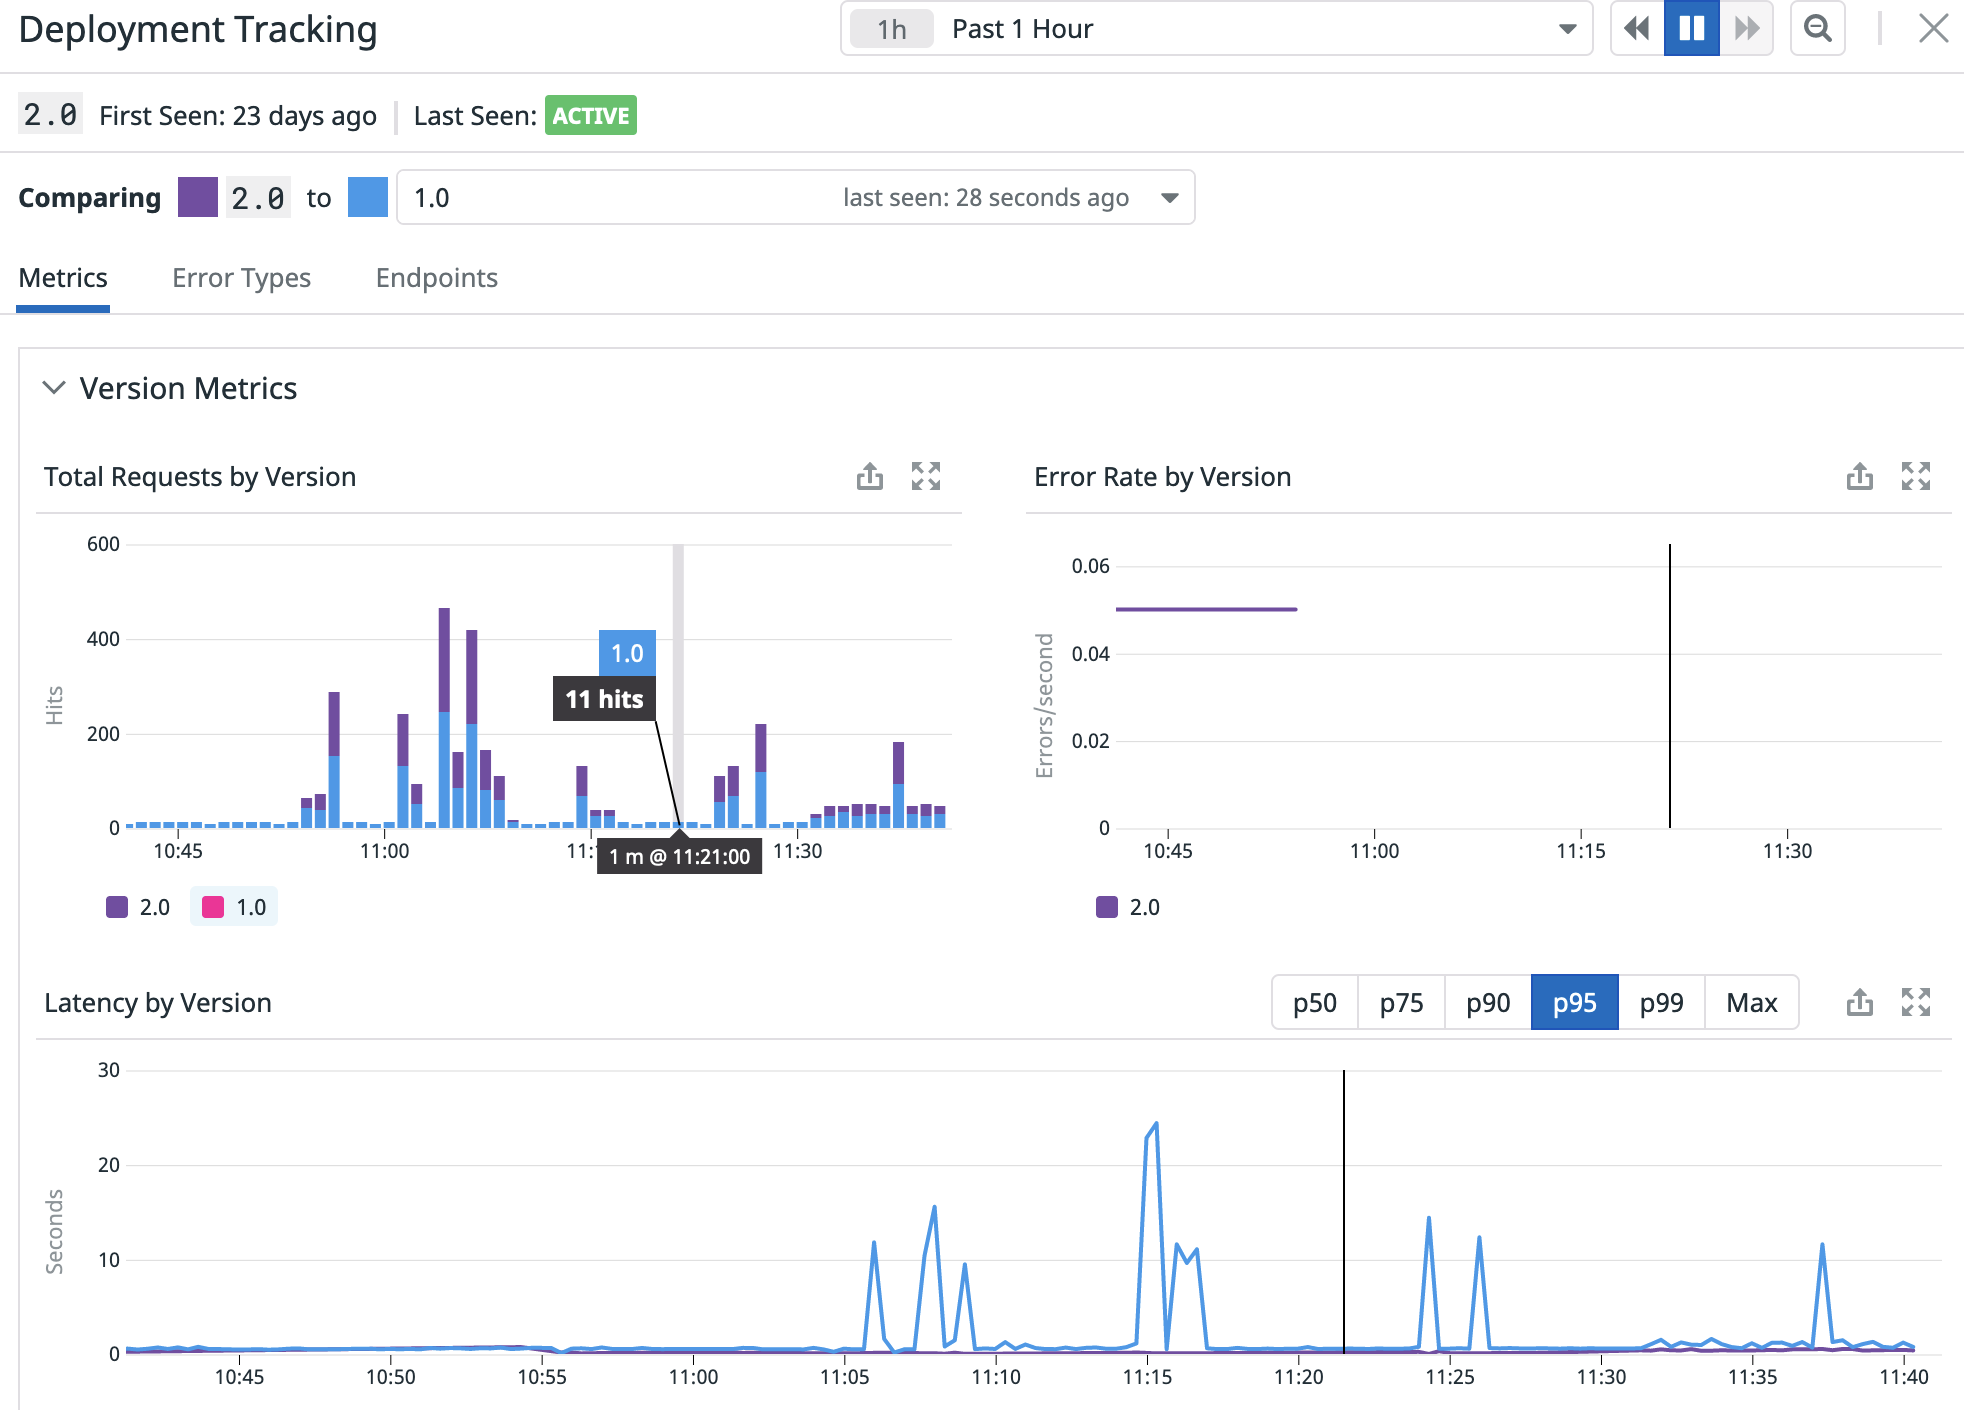
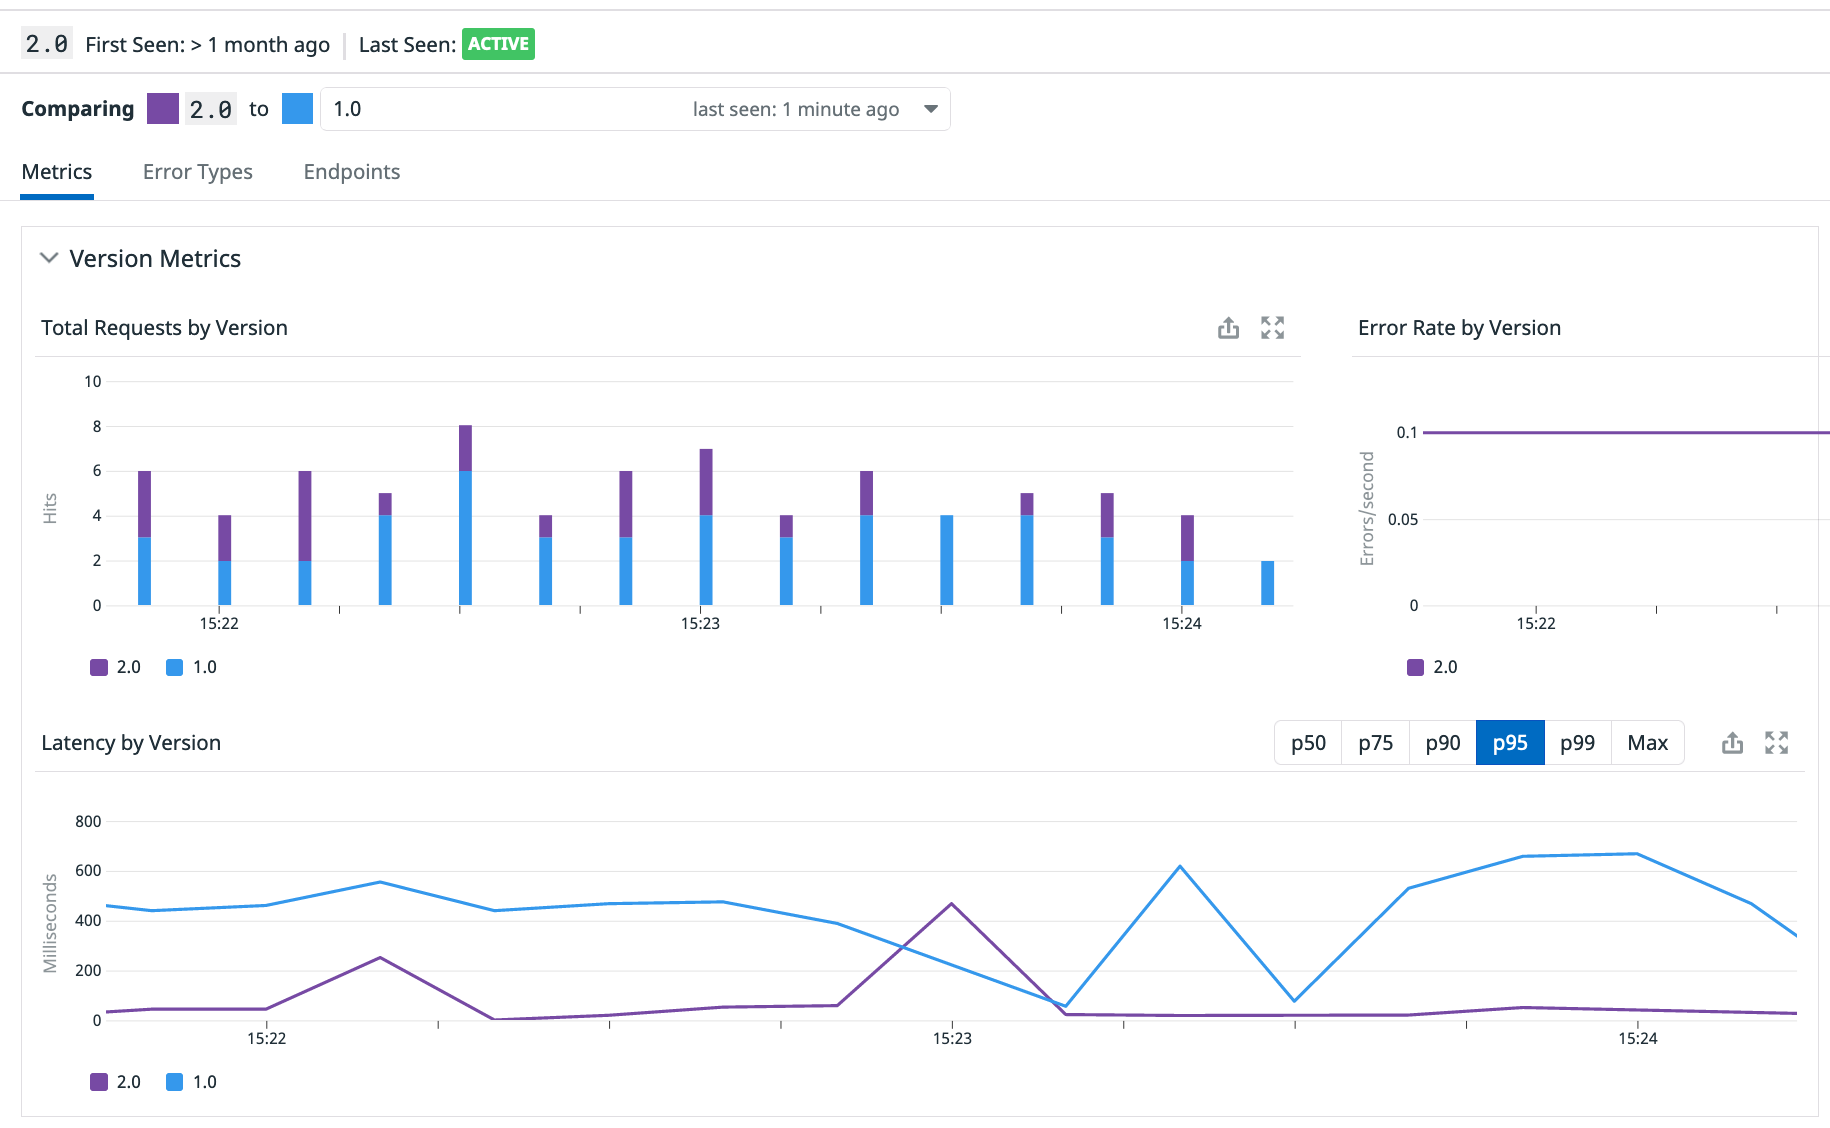
Add an error rate to the second version

diff --git a/progressive/step8.md b/progressive/step8.md
@@ -49,4 +49,8 @@ Click on the `2.0` row and you will get a comparison between the two versions:
 
 Are we getting new errors? Is the latency of the two versions similar? Are we happy with progressively moving this release forward or shall we rollback?
 
+If you wait long enough, you will see that this second version has a slightly higher error rate and it might be safer to rollback. You can get also this information in the `frontend` service overview page:
+
+![Screenshot of frontend service comparison for error rates](./assets/frontend_error_rate.png)
+
 **IMPORTANT**: Before continuing, let's revert the second version of the `frontend` service to make sure the rest of the labs work correctly: `kubectl delete -f manifest-files/ingress/ecommerce-v2/`{{execute}}
